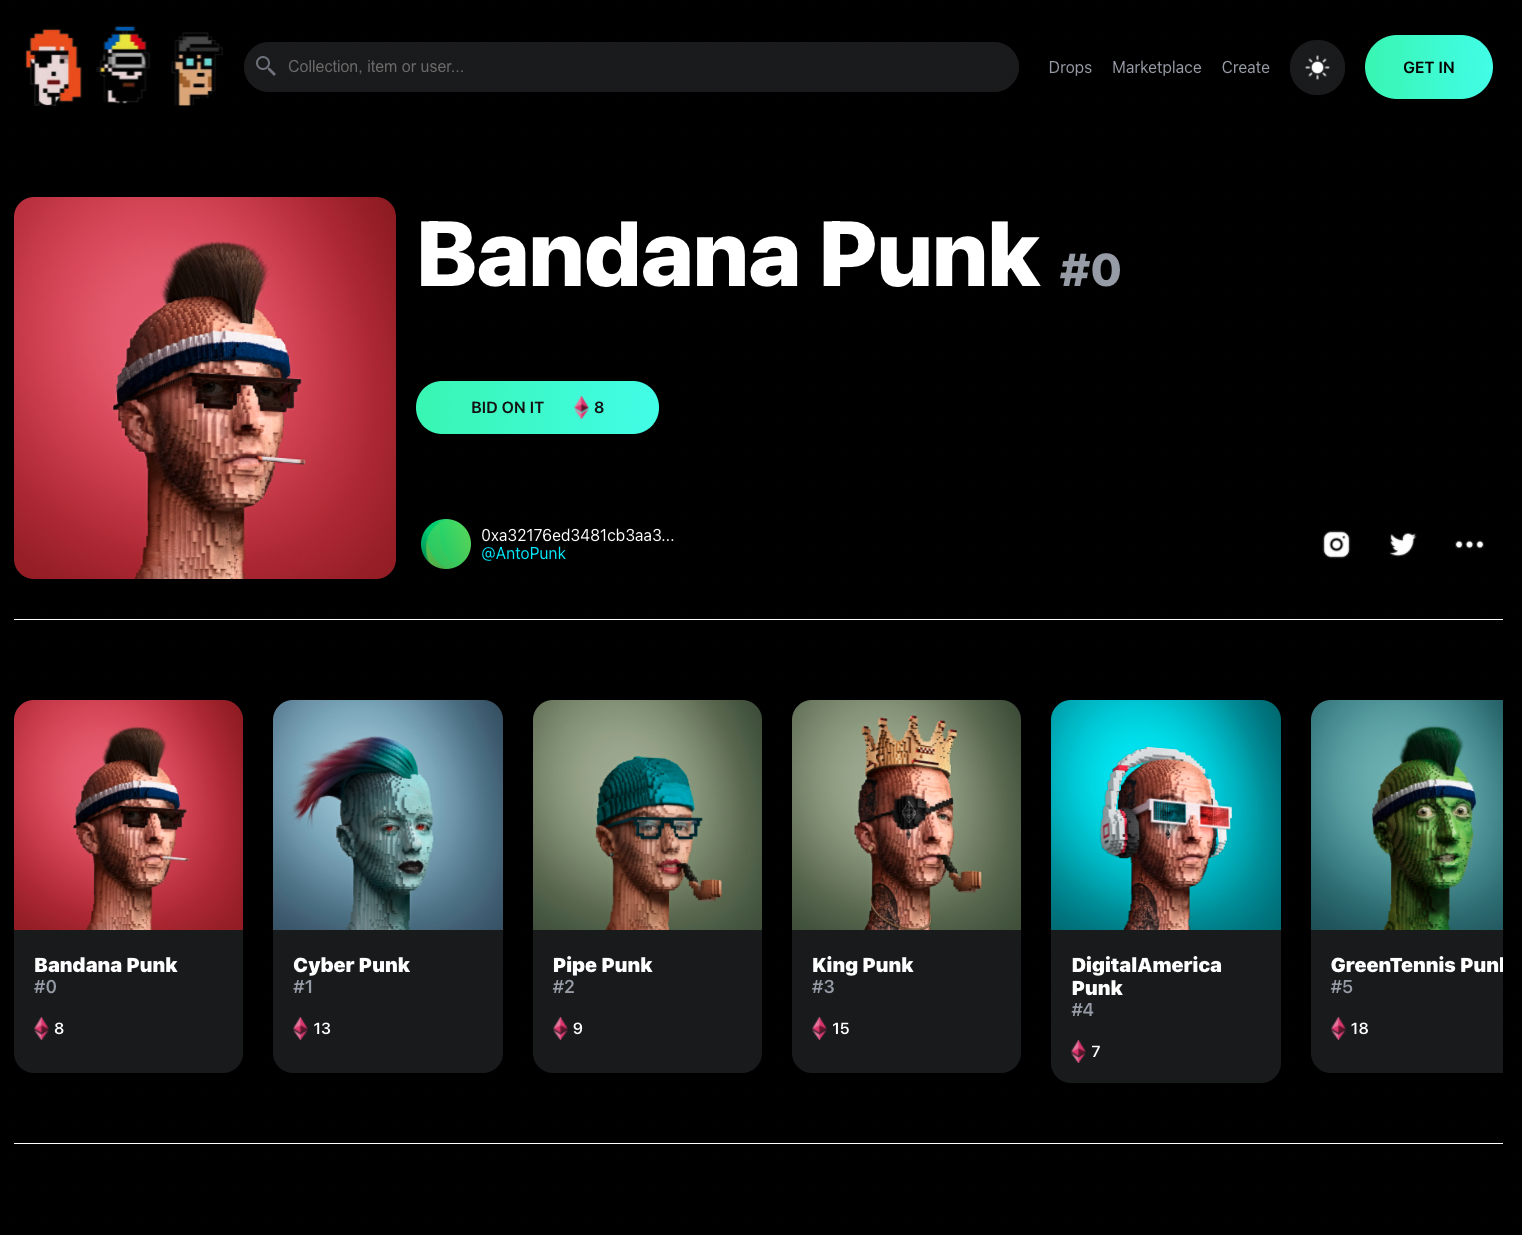
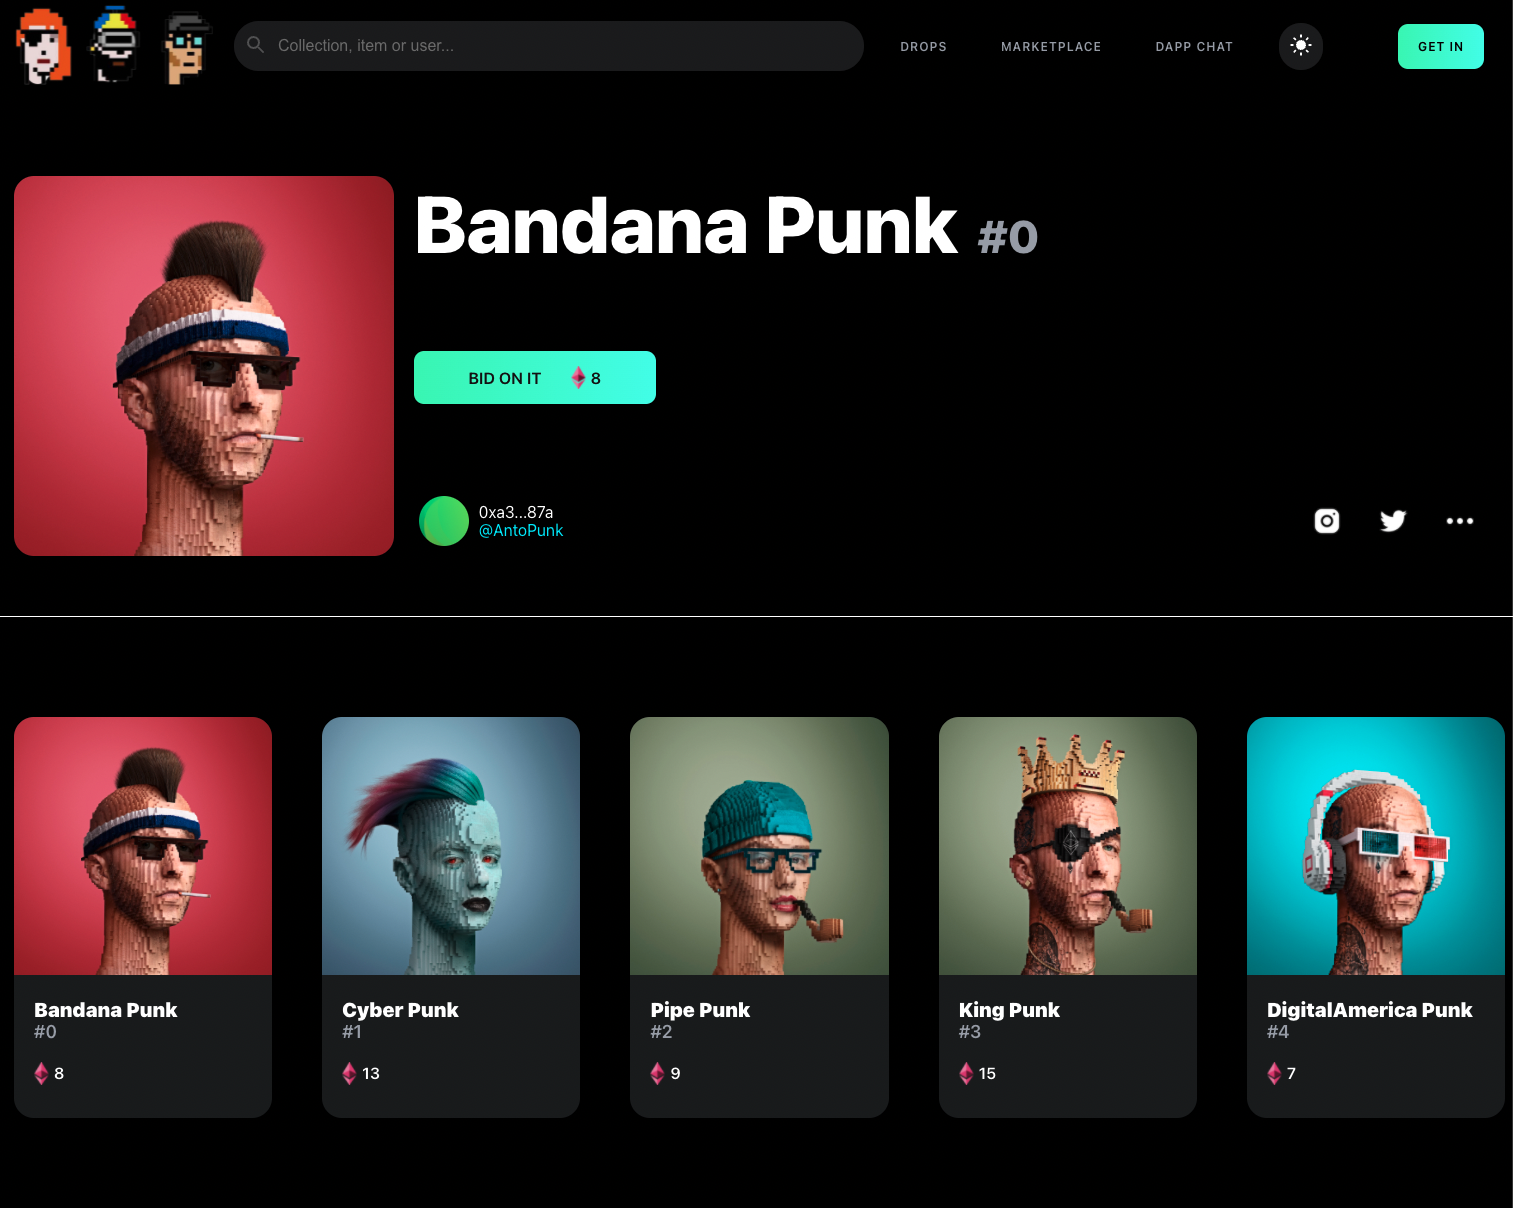
main css updated on mobile and title fixed

diff --git a/src/components/main.css b/src/components/main.css
@@ -160,23 +160,15 @@
 
 @media screen and (max-width: 1024px) {
   .main {
-    max-height: 100vh;
+    max-height: fit-content;
   }
 
   .mainContent {
     margin: 0;
     flex-direction: column-reverse;
-    height: 80vh;
+    height: auto;
     width: 100%;
     padding: 0 0 60px 0;
-  }
-
-  .punkHighlight {
-    flex: 0.8;
-  }
-
-  .punkDetails {
-    flex: 0.2;
   }
 
   .selectedPunk {
@@ -200,7 +192,7 @@
   }
 
   .title {
-    padding-left: 0.5em;
+    padding: 0 0.25em;
   }
 
   .itemNumber {

diff --git a/src/index.css b/src/index.css
@@ -15,6 +15,7 @@ body {
     sans-serif;
   -webkit-font-smoothing: antialiased;
   -moz-osx-font-smoothing: grayscale;
+  background-color: black;
 }
 
 code {
